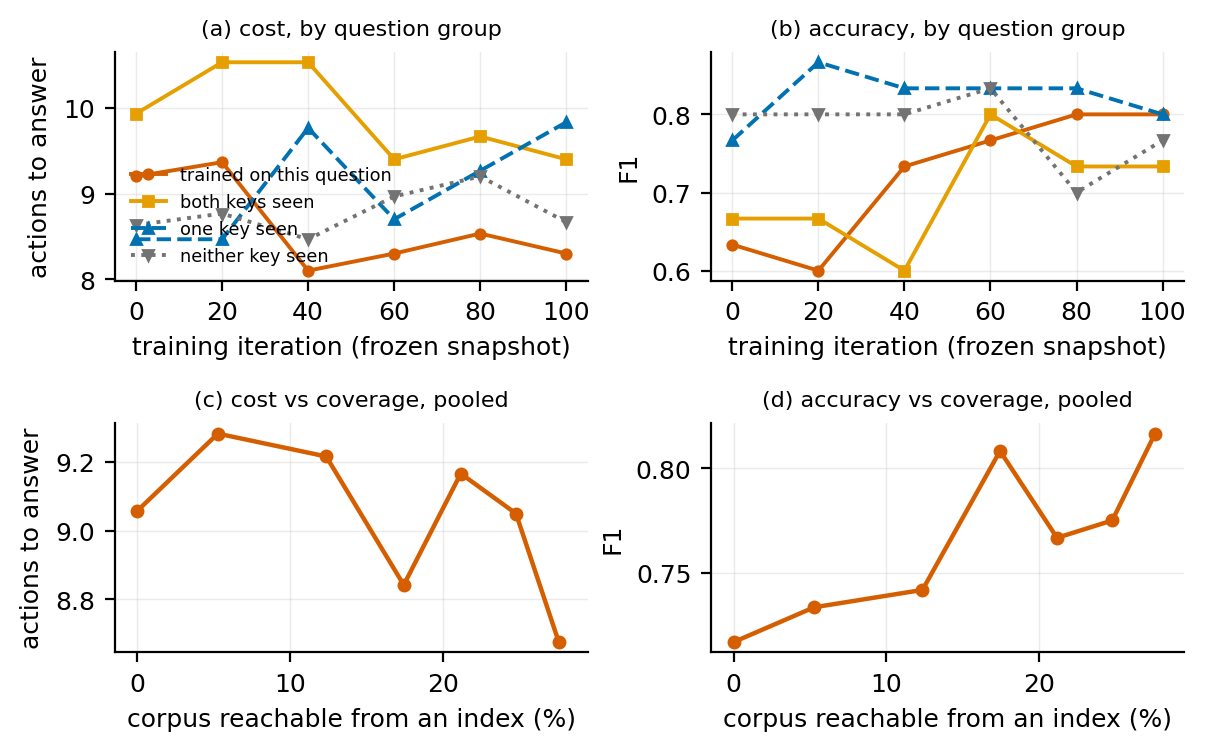
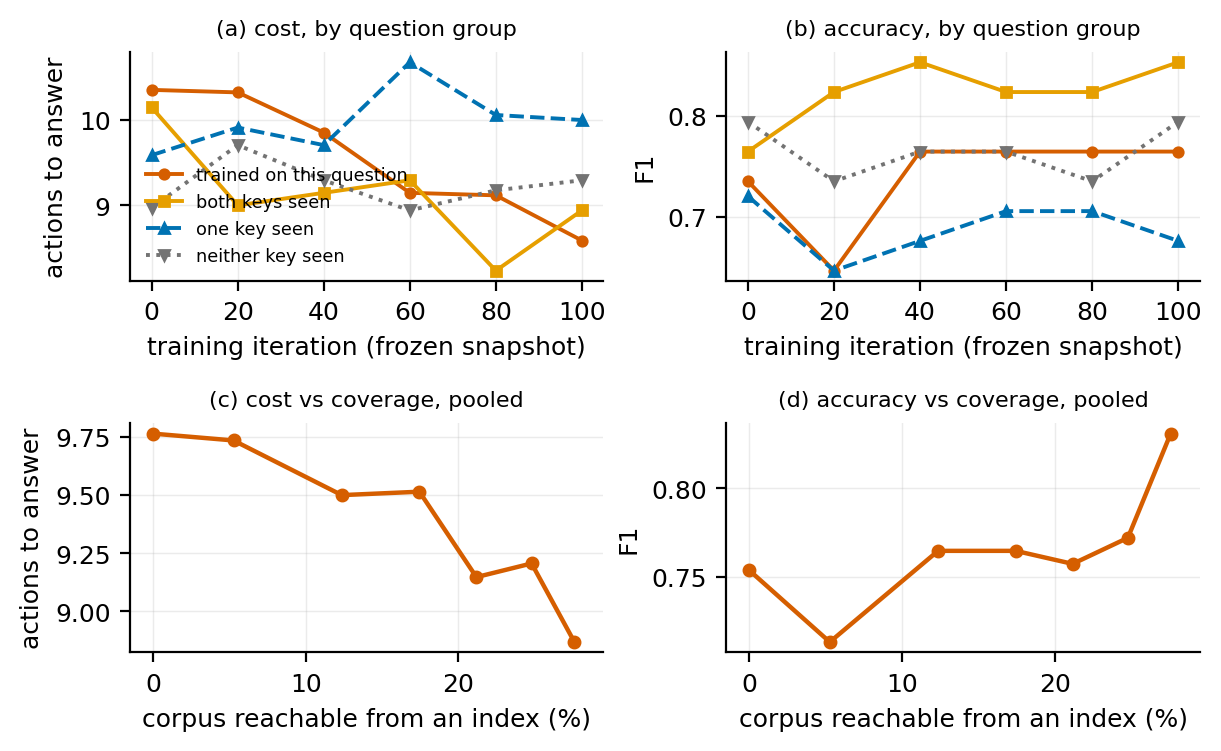
Fig 2 regenerated on the stratified probe; two-epochs story corrected
On the stratified (all two-slot) trained group the epochs swap roles:
epoch 1 buys the step saving (10.35->8.59) with accuracy nearly flat,
epoch 2 buys the accuracy (0.765->0.912 trained, 0.853->0.941 at both
keys) with cost only edging further. Gains in panels a-b track key
coverage, not question identity. Caption and E2 paragraph updated; the
store-side mechanism (45 new indexes, flat out-degree) is unchanged.

diff --git a/paper/main.tex b/paper/main.tex
@@ -604,13 +604,13 @@ because it was pre-registered, not because it carries weight.
 \caption{Six frozen snapshots from epoch~1, read two ways. The reader,
 action set, budget and questions are identical at every point, so the only
 thing varying is the store. \emph{(a, b)} Cost and accuracy per question
-group against training iteration: the trained group improves while the three
-untrained groups do not, and the ordering is already visible within a single
-epoch. \emph{(c, d)} The same runs pooled, against the share of the corpus
-the store's indexes reach --- the quantity training actually buys. Accuracy
-rises steadily with coverage; cost falls more noisily. Coverage reaches
-$24.8\%$ by the end of the epoch, and the second epoch (Sec.~E2) adds the
-remaining cost saving without adding accuracy.}
+group against training iteration: the two key-covered groups improve while
+the two uncovered ones do not --- gains track key coverage, not question
+identity. \emph{(c, d)} The same runs pooled, against the share of the
+corpus the store's indexes reach --- the quantity training actually buys.
+Cost falls and accuracy rises with coverage; the last point is the epoch-2
+store. Coverage reaches $24.8\%$ by the end of epoch~1; the second pass
+(Sec.~E2) then converts that structure into most of the accuracy gain.}
 \label{fig:learning}
 \end{figure*}
 
@@ -641,18 +641,20 @@ where the exact question was trained, decays faster.
 
 \textbf{Two epochs, two different gains.} Fig.~\ref{fig:learning}a--b
 separates them. Across epoch~1, where each question is seen once, the
-trained group's accuracy moves almost all the way it is going to move
-($0.633 \to 0.800$) while cost barely does ($9.20 \to 8.30$ actions). Across
-epoch~2, where the same hundred questions are curated a second time, cost
-falls the rest of the way ($8.30 \to 6.57$) and accuracy does not move at
-all. The second pass does not change what the store can answer; it changes
-how quickly. Nor does it work by completing indexes left half-built ---
-mean out-degree is flat across the epoch ($6.79$ to $6.67$) and the empty
-count barely moves ($45$ to $43$) --- it works by adding $45$ more indexes
-aimed at the same questions. The saving we report therefore reflects two
-curation passes over a question, not one, which is a real qualification on
-the headline number and a direct argument for the online setting: a store
-serving repeat traffic gets more passes over the keys that matter, for free.
+trained group's \emph{cost} moves most of the way it is going to move
+($10.35 \to 8.59$ actions) while accuracy barely does ($0.735 \to 0.765$).
+Across epoch~2, where the same hundred questions are curated a second
+time, accuracy jumps ($0.765 \to 0.912$ on the trained group,
+$0.853 \to 0.941$ one step out) while cost only edges further
+($8.59 \to 8.00$). The first pass builds the navigation that makes
+answers cheaper; the second pass is what makes them \emph{right} --- and
+it does not work by completing indexes left half-built (mean out-degree is
+flat across the epoch, $6.79$ to $6.67$, and the empty count barely moves,
+$45$ to $43$) but by adding $45$ more indexes aimed at the same questions.
+The gains we report therefore reflect two curation passes over a question,
+not one, which is a real qualification on the headline numbers and a
+direct argument for the online setting: a store serving repeat traffic
+gets more passes over the keys that matter, for free.
 
 \textbf{The transfer radius depends on which endpoint you ask about.}
 Splitting each group by whether the flat store exhausted its budget

diff --git a/scripts/make_figures.py b/scripts/make_figures.py
@@ -35,8 +35,8 @@ CURVE = [("exact", "trained on this question", VERM, "o", "-"),
          ("share1", "one key seen", BLUE, "^", "--"),
          ("share0", "neither key seen", "0.45", "v", ":")]
 ITERS = [0, 20, 40, 60, 80, 100]
-MIN_ROWS = 120  # all four groups complete: kb.test fills splits in order,
-                # so a partial file has some groups at n=0 and others at n=30        # epoch 1 only: epoch 2
+MIN_ROWS = 136  # all four groups complete: kb.test fills splits in order,
+                # so a partial file has some groups at n=0 and others at n=34        # epoch 1 only: epoch 2
                                         # repeats the same questions
                                         # and adds no new keys
 
@@ -68,7 +68,7 @@ def gradient_and_coverage():
     for split, label, color, marker, ls in CURVE:
         xs, ys, fs = [], [], []
         for N in ITERS:
-            p = f"runs/curve_{N}/test_log.jsonl"
+            p = f"runs/grad2_curve_{N}/test_log.jsonl"
             if not os.path.exists(p):
                 continue
             allrows = [json.loads(l) for l in open(p)]
@@ -89,7 +89,7 @@ def gradient_and_coverage():
     # --- bottom row: pooled, against coverage, with the offline arms
     xs, ys, fs = [], [], []
     for N in ITERS:
-        p = f"runs/curve_{N}/test_log.jsonl"
+        p = f"runs/grad2_curve_{N}/test_log.jsonl"
         if not os.path.exists(p):
             continue
         rows = [json.loads(l) for l in open(p)]
@@ -106,7 +106,7 @@ def gradient_and_coverage():
         r = [json.loads(l) for l in open(p)]
         return sum(x["steps"] for x in r) / len(r), sum(x["f1"] for x in r) / len(r)
 
-    final = arm("grad_trained")          # epoch-2 store, 27.6% coverage
+    final = arm("grad2_trained")          # epoch-2 store, 27.6% coverage
     if final:
         xs.append(27.6); ys.append(final[0]); fs.append(final[1])
     for ax, vals, j in ((b_s, ys, 0), (b_f, fs, 1)):
